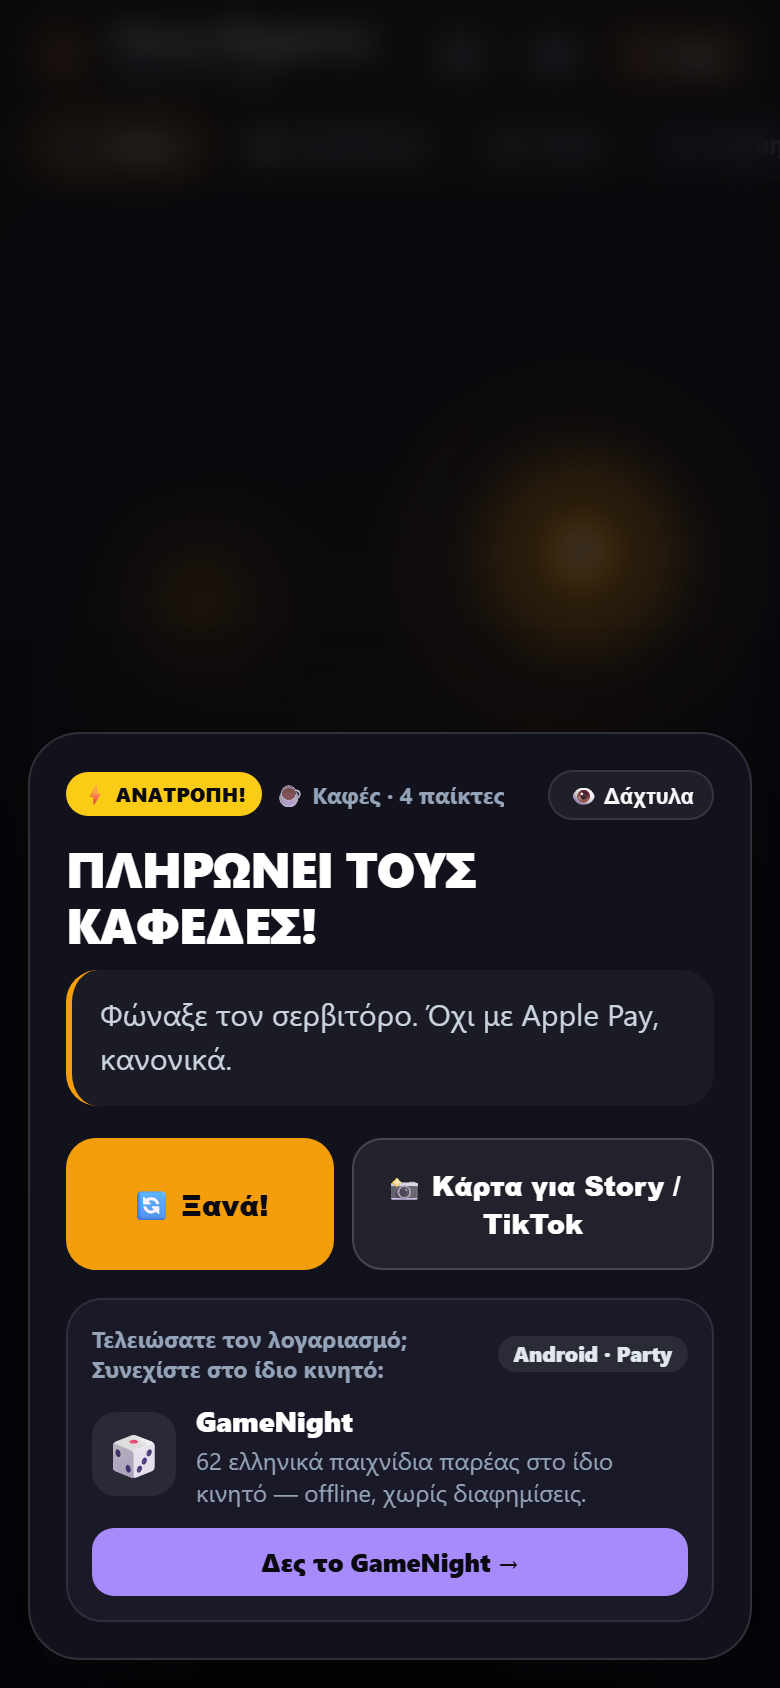
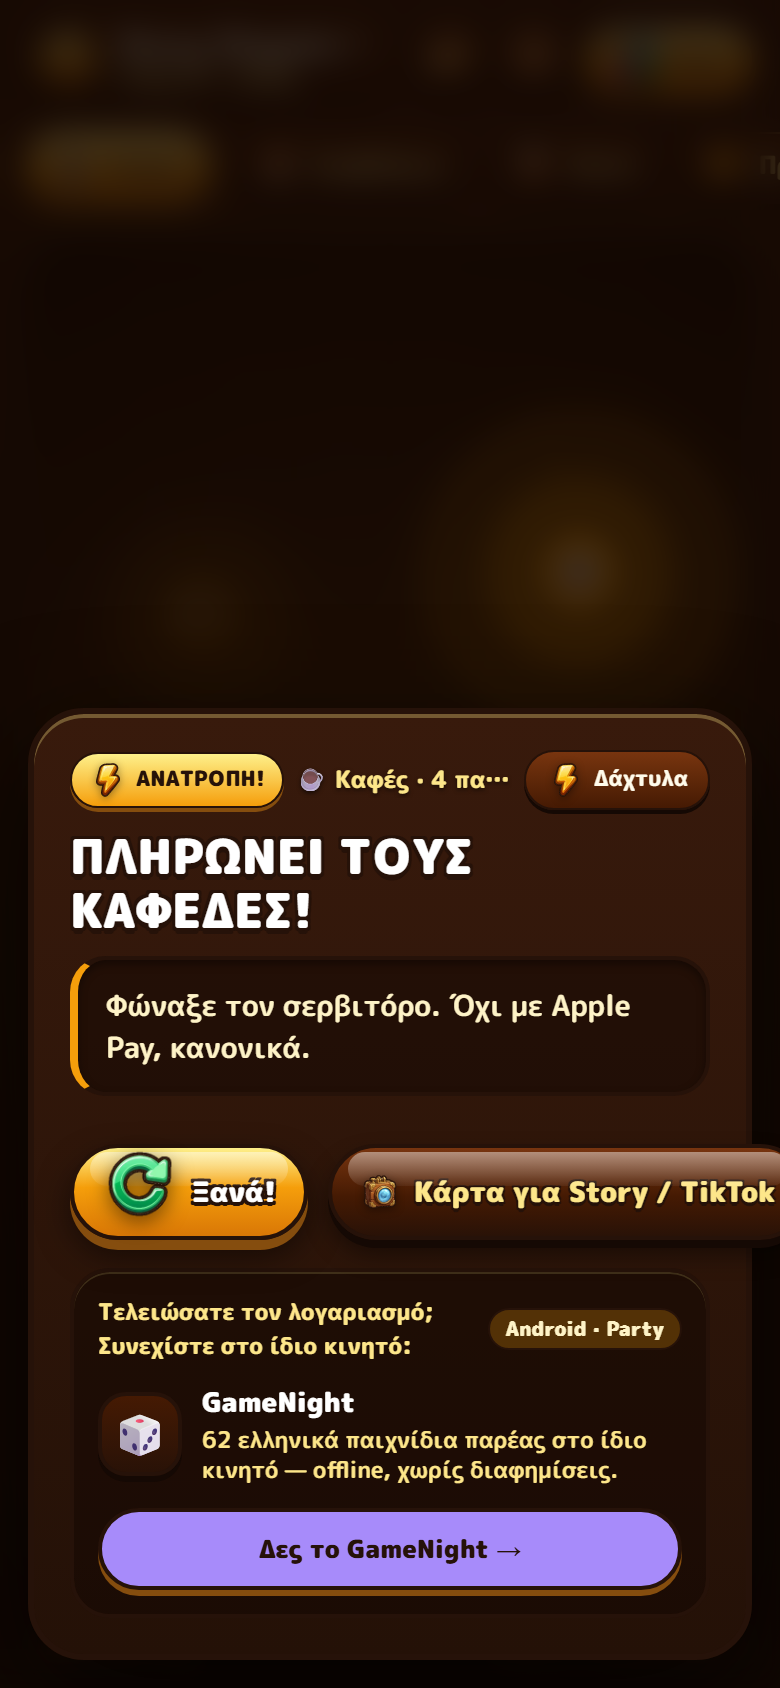
release(v1.1.0): bouncy cartoon 3d ui, screenshots and version.json

diff --git a/CHANGELOG.md b/CHANGELOG.md
@@ -1,5 +1,11 @@
 # Changelog — Ποιος Πληρώνει; (`poios-plironei`)
 
+## v1.1.0 (2026-11-22)
+* 🎨 **Bouncy Cartoon 3D UI Overhaul (Tavern Wood & Gold 2α):** Πλήρης επανασχεδιασμός του UI, του HUD και των μενού σε στυλ Gold & Goblins με βαθύ ξύλο ταβέρνας, χρυσά περιγράμματα και 3D bevels.
+* 🔤 **Offline Greek Cartoon Font (`GameDisplay`):** Ενσωμάτωση offline γραμματοσειράς `M PLUS Rounded 1c` (700, 800, 900) για ελληνικά και λατινικά, με παχύ cartoon περίγραμμα (`text-shadow` 4 κατευθύνσεων & canvas `strokeText`).
+* ✨ **22 Baked 3D Cartoon Icons (160×160 .webp):** Αντικατάσταση όλων των emojis σε HUD, κάψουλες και κουμπιά με καθαρά 3D cartoon εικονίδια με σκούρο περίγραμμα `#261209`.
+* 🔘 **Glossy 3D Pillow Buttons & Elevated Hero CTA:** 3D pillow κουμπιά με λευκή αντανάκλαση, παχύ κάτω bevel και press animation. Υπερυψωμένο CTA κουμπί με προεξέχον εικονίδιο.
+
 ## v1.0.1 (2026-11-20)
 * 🎨 **Custom Android Launcher, Adaptive & Splash Icons:** Αντικατάσταση των default εικονιδίων του Capacitor με το αυθεντικό εικονίδιο κεραυνού/ρουλέτας σε όλα τα Android mipmap μεγέθη (`mdpi`–`xxxhdpi`), round/adaptive foreground & σκοτεινό `#09090F` splash screen.
 
